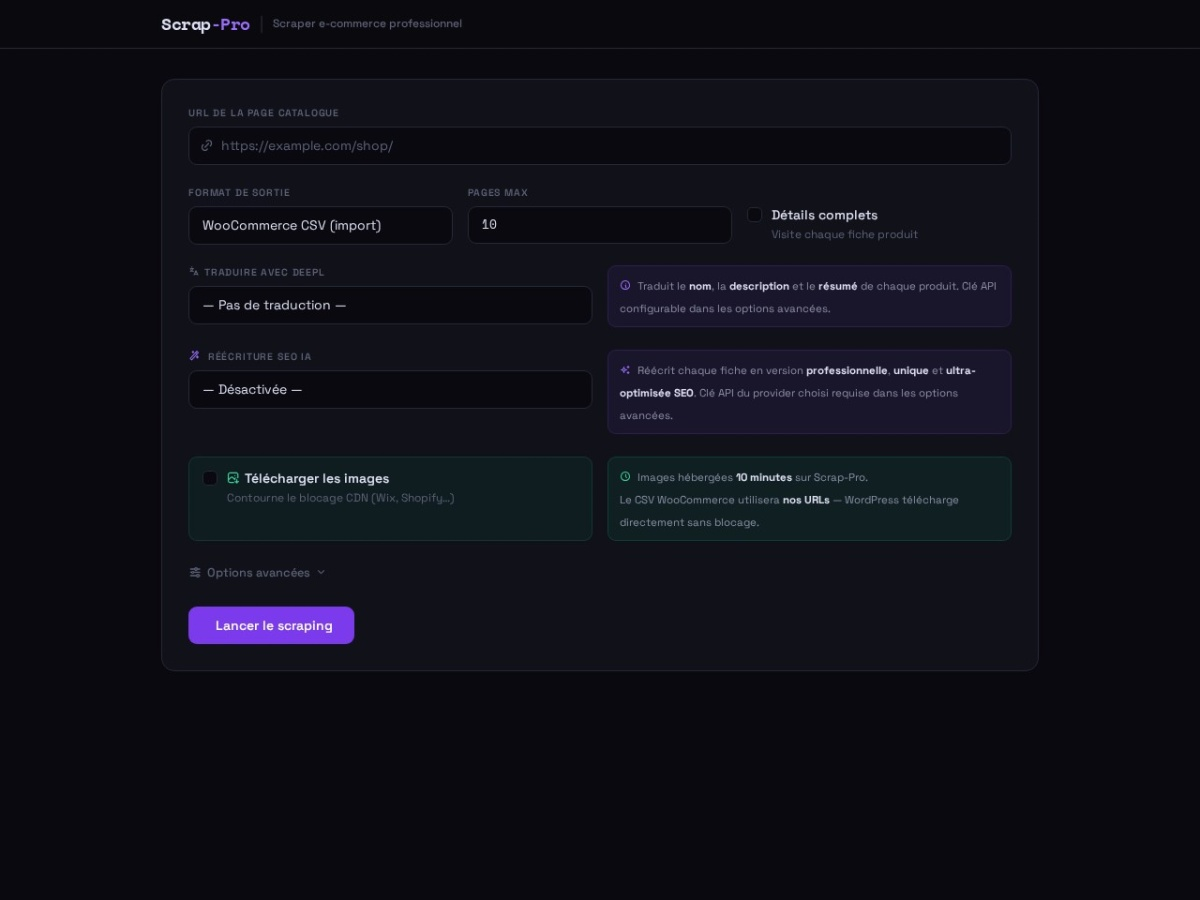
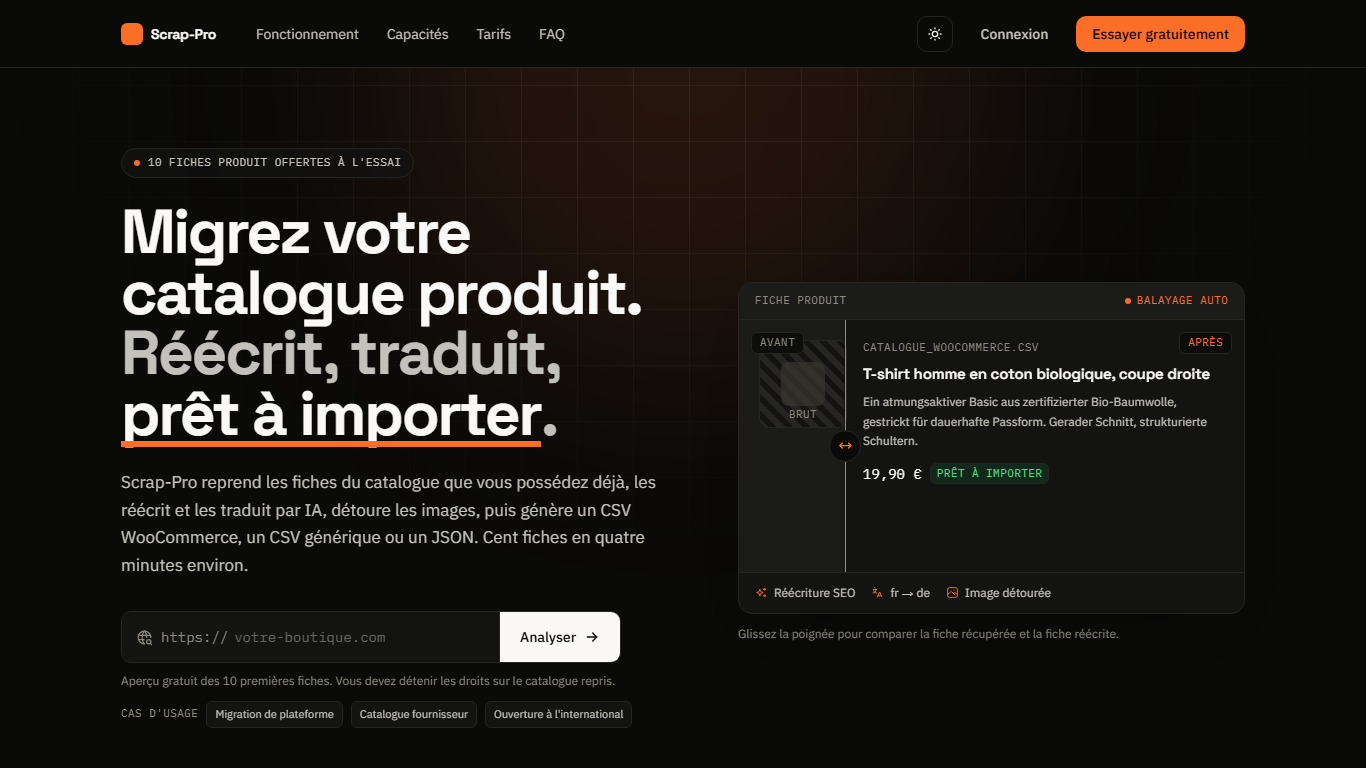
feat(projects): actualise la fiche Scrap-Pro
La fiche annonçait Flask, retiré du projet lors du passage à FastAPI, et une
description antérieure à tout le volet SaaS.

- Description réécrite autour de la reprise de catalogue plutôt que du
  scraping, conformément au repositionnement du produit.
- Étiquettes : Next.js, FastAPI, PostgreSQL, Stripe, et « En développement ».
- URL vers le frontend Vercel au lieu de l'API Render, qui ne renvoyait que du
  JSON à un visiteur.
- Capture refaite depuis le site en ligne, après la refonte de la page
  d'accueil. L'ancien fichier était un JPEG portant une extension .png.

diff --git a/src/data/projects.ts b/src/data/projects.ts
@@ -120,14 +120,16 @@ export const projects: Project[] = [
     {
         id: "scrap-pro",
         title: "Scrap-Pro",
-        desc: "Scrape un catalogue e-commerce entier, le traduit avec DeepL, réécrit le SEO et l'exporte prêt à l'import WooCommerce.",
+        desc: "Reprend le catalogue produit d'une boutique en ligne, le réécrit et le traduit par IA, puis l'exporte prêt à importer dans WooCommerce, Shopify ou Wix. Crédits prépayés, suivi en direct et tri des fiches avant export.",
         tags: [
-            { label: "Python", bg: "bg-brand", color: "text-white" },
-            { label: "Flask", bg: "bg-dark", color: "text-lime" },
-            yearTag(2026),
+            { label: "Next.js", bg: "bg-brand", color: "text-white" },
+            { label: "FastAPI", bg: "bg-dark", color: "text-lime" },
+            { label: "PostgreSQL", bg: "bg-purple", color: "text-white" },
+            { label: "Stripe", bg: "bg-purple", color: "text-white" },
+            wipTag,
         ],
         image: "/projects/scrap-pro.png",
-        url: "https://scrap-pro.onrender.com",
+        url: "https://scrap-pro-gray.vercel.app",
         photoBg: "bg-purple",
         featured: true,
     },
